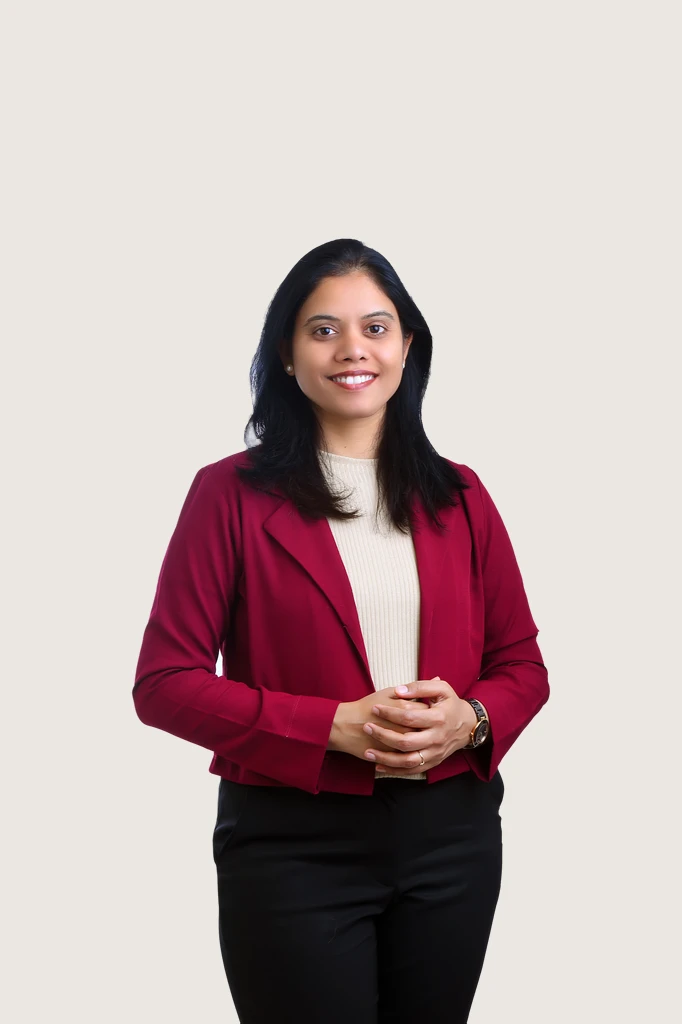
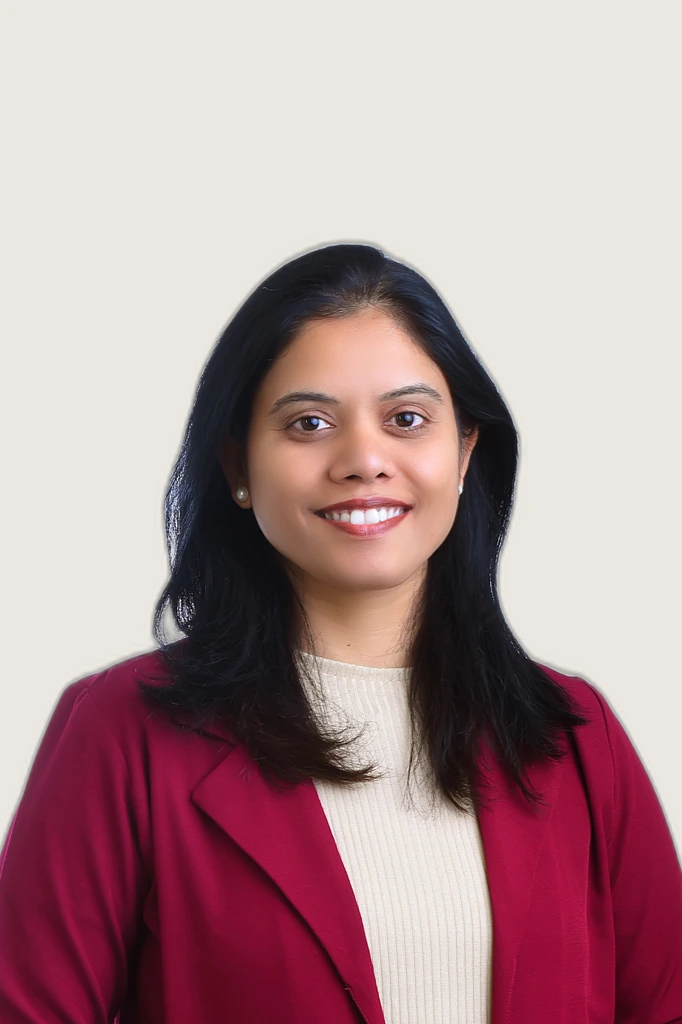
feat: update Dr. Ashvini portrait crop and clinic contact info

diff --git a/assets/js/main.js b/assets/js/main.js
@@ -293,8 +293,8 @@ document.addEventListener('DOMContentLoaded', () => {
       const treatmentText = treatmentSelect.options[treatmentSelect.selectedIndex].text;
 
       // Define WhatsApp numbers (Format: country code + number, no +, no spaces)
-      // For testing, route all submissions to the user's test number: +91 8767223224
-      const whatsappNumber = '918767223224'; 
+      // Route all submissions to clinic WhatsApp number: +91 94055 49094
+      const whatsappNumber = '919405549094'; 
       const branchName = branchVal === 'solapur' ? 'Solapur Main Branch' : 'Akkalkot Branch';
 
       // Format the WhatsApp message (using bold markdown *text*)
@@ -348,7 +348,7 @@ _Submitted via website form_`;
       const email = campForm.querySelector('#camp-email').value;
       const phone = campForm.querySelector('#camp-phone').value;
 
-      const whatsappNumber = '918767223224';
+      const whatsappNumber = '919405549094';
 
       const messageText = 
 `*Dental Camp Request*

diff --git a/contact.html b/contact.html
@@ -228,7 +228,7 @@
                             </div>
                             <div class="branch-card-footer">
                                 <a href="https://www.google.com/maps/search/?api=1&amp;query=Dr.+Karpe's+Centre+for+Advanced+Dentistry+Solapur" target="_blank" rel="noopener" class="btn-branch btn-directions"><i class="fa-solid fa-map-location-dot"></i> Get Directions</a>
-                                <a href="https://wa.me/918767223224?text=Hi%20Dr.%20Karpe%20Clinic%20(Solapur),%20I%20have%20an%20inquiry..." target="_blank" rel="noopener" class="btn-branch btn-whatsapp"><i class="fa-brands fa-whatsapp"></i> Chat on WhatsApp</a>
+                                <a href="https://wa.me/919405549094?text=Hi%20Dr.%20Karpe%20Clinic%20(Solapur),%20I%20have%20an%20inquiry..." target="_blank" rel="noopener" class="btn-branch btn-whatsapp"><i class="fa-brands fa-whatsapp"></i> Chat on WhatsApp</a>
                             </div>
                         </div>
 
@@ -245,7 +245,7 @@
                             </div>
                             <div class="branch-card-footer">
                                 <a href="https://www.google.com/maps/search/?api=1&amp;query=Dr.+Karpe's+Centre+for+Advanced+Dentistry+Akkalkot" target="_blank" rel="noopener" class="btn-branch btn-directions"><i class="fa-solid fa-map-location-dot"></i> Get Directions</a>
-                                <a href="https://wa.me/918767223224?text=Hi%20Dr.%20Karpe%20Clinic%20(Akkalkot),%20I%20have%20an%20inquiry..." target="_blank" rel="noopener" class="btn-branch btn-whatsapp"><i class="fa-brands fa-whatsapp"></i> Chat on WhatsApp</a>
+                                <a href="https://wa.me/919503159509?text=Hi%20Dr.%20Karpe%20Clinic%20(Akkalkot),%20I%20have%20an%20inquiry..." target="_blank" rel="noopener" class="btn-branch btn-whatsapp"><i class="fa-brands fa-whatsapp"></i> Chat on WhatsApp</a>
                             </div>
                         </div>
                     </div>

diff --git a/index.html b/index.html
@@ -43,7 +43,7 @@
 	  "name": "Dr. Karpe's Centre for Advanced Dentistry and Implantology",
 	  "image": "https://www.drkarpe.com/assets/img/logo.png",
 	  "telephone": "+91-94055-49094",
-	  "email": "[email redacted]",
+	  "email": "[email redacted]",
 	  "address": {
 		"@type": "PostalAddress",
 		"streetAddress": "139, Vijay Tower, Opposite Jain Medical, Near Bombay Bakery, Railway Line",
@@ -938,7 +938,7 @@
 
                                 <!-- Contact Info Content Start -->
                                 <div class="contact-info-content">
-                                    <p><strong>Email:</strong> [email redacted]</p>
+                                    <p><strong>Email:</strong> <a href="mailto:[email redacted]" style="color: inherit;">[email redacted]</a></p>
                                 </div>
                                 <!-- Contact Info Content End -->
                             </div>

diff --git a/js/appointment.js b/js/appointment.js
@@ -18,7 +18,7 @@ document.addEventListener('DOMContentLoaded', () => {
       const treatmentText = treatmentSelect.options[treatmentSelect.selectedIndex].text;
 
       // Define WhatsApp numbers (Format: country code + number, no +, no spaces)
-      const whatsappNumber = '918767223224'; 
+      const whatsappNumber = '919405549094'; 
       const branchName = branchVal === 'solapur' ? 'Solapur Main Branch' : 'Akkalkot Branch';
 
       // Format the WhatsApp message (using bold markdown *text*)
@@ -72,7 +72,7 @@ _Submitted via website form_`;
       const email = campForm.querySelector('#camp-email').value;
       const phone = campForm.querySelector('#camp-phone').value;
 
-      const whatsappNumber = '918767223224';
+      const whatsappNumber = '919405549094';
 
       const messageText = 
 `*Dental Camp Request*

diff --git a/assets/js/chatbot.js b/assets/js/chatbot.js
@@ -270,7 +270,7 @@
     });
 
   // WhatsApp Configuration
-  const whatsappPhone = "+918767223224"; // Tested phone number
+  const whatsappPhone = "+919405549094"; // Clinic WhatsApp number
   const whatsappBaseUrl = "https://wa.me/" + whatsappPhone + "?text=";
 
   // --- FUZZY SEARCH MATCHING LOGIC ---

diff --git a/js/chatbot.js b/js/chatbot.js
@@ -270,7 +270,7 @@
     });
 
   // WhatsApp Configuration
-  const whatsappPhone = "+918767223224"; // Tested phone number
+  const whatsappPhone = "+919405549094"; // Clinic WhatsApp number
   const whatsappBaseUrl = "https://wa.me/" + whatsappPhone + "?text=";
 
   // --- FUZZY SEARCH MATCHING LOGIC ---

diff --git a/privacy-policy.html b/privacy-policy.html
@@ -170,7 +170,7 @@
                                 <p style="margin: 0; font-weight: 500; color: var(--primary-color);">WhatsApp &amp; Direct Messaging Notice:</p>
                                 <p style="margin: 5px 0 0 0; font-size: 0.95rem;">Our forms feature direct WhatsApp integration (`wa.me`) to provide instant responses. When you click submit, your submitted details are pre-formatted into a WhatsApp chat for convenience. We do not use your phone number for unsolicited marketing or spam.</p>
                             </div>
-                            <p><strong>Opting Out:</strong> You may withdraw your consent to receive calls or promotional/reminder messages at any time by contacting our reception desk or emailing us at [email redacted].</p>
+                            <p><strong>Opting Out:</strong> You may withdraw your consent to receive calls or promotional/reminder messages at any time by contacting our reception desk or emailing us at <a href="mailto:[email redacted]" style="color: inherit;">[email redacted]</a>.</p>
                         </div>
 
                         <!-- Section 4 -->

diff --git a/team-single.html b/team-single.html
@@ -152,7 +152,7 @@
                             <ul>
                                 <li><span>Position</span>Senior Dantist</li>
                                 <li><span>Experience</span>08 Years</li>
-                                <li><span>Email</span>[email redacted]</li>
+                                <li><span>Email</span><a href="mailto:[email redacted]" style="color: inherit;">[email redacted]</a></li>
                             </ul>
                         </div>
 

diff --git a/docs/superpowers/plans/2026-07-24-dr-ashvini-photo-and-contact-info-updates.md b/docs/superpowers/plans/2026-07-24-dr-ashvini-photo-and-contact-info-updates.md
@@ -1,0 +1,69 @@
+# Dr. Ashvini Karpe Photo & Contact Information Updates Implementation Plan
+
+> **For agentic workers:** REQUIRED SUB-SKILL: Use superpowers:subagent-driven-development (recommended) or superpowers:executing-plans to implement this plan task-by-task. Steps use checkbox (`- [ ]`) syntax for tracking.
+
+**Goal:** Crop Dr. Ashvini Karpe's portrait from bottom to waist level while preserving theme and background, and update clinic email and WhatsApp numbers across all site files.
+
+**Architecture:** Python PIL + rembg script for portrait background removal, studio warm gray fill (`#EAE7E1`), top headroom alignment, and waist crop. Batch replace strings in HTML and JS for contact info.
+
+**Tech Stack:** Python (PIL, rembg, numpy), HTML, JavaScript.
+
+## Global Constraints
+
+- Dr. Ashvini portrait dimensions must be `682x1024` WebP.
+- Background color must match studio Warm Gray `#EAE7E1`.
+- Email target: `[email redacted]`.
+- WhatsApp target: `+91 94055-49094` (`919405549094`).
+
+---
+
+### Task 1: Re-process Dr. Ashvini Karpe Portrait (Waist-Crop Framing)
+
+**Files:**
+- Source: `assets/img/New_Images/Dr. Ashwini Karpe.jpg`
+- Output: `assets/img/team/Dr-Ashvini-Karpe.webp`
+
+- [ ] **Step 1: Write python portrait processing script**
+
+Write `scratch/process_ashvini_portrait.py` to extract subject via `rembg`, create a Warm Gray `682x1024` canvas (`#EAE7E1`), position subject head top at y=238, scale subject to crop at waist level, and export as WebP.
+
+- [ ] **Step 2: Run processing script**
+
+Run: `python scratch/process_ashvini_portrait.py`
+
+- [ ] **Step 3: Verify output dimensions and subject bounds**
+
+Run: `python -c "from PIL import Image; img=Image.open('assets/img/team/Dr-Ashvini-Karpe.webp'); print(img.size)"`
+Expected: `(682, 1024)`
+
+---
+
+### Task 2: Replace Legacy Email Addresses Across Codebase
+
+**Files:**
+- Modify: `index.html`, `about.html`, `contact.html`, `appointment.html`, `privacy-policy.html`, `team-single.html`
+
+- [ ] **Step 1: Replace legacy emails in HTML files**
+
+Replace `[email redacted]`, `[email redacted]`, `[email redacted]` with `[email redacted]`.
+
+- [ ] **Step 2: Verify zero legacy email occurrences remain**
+
+Run: `grep -rn "drkarpe.com" *.html` and `grep -rn "[email redacted]" *.html`
+Expected: 0 matches for old emails (excluding website domain URL references if valid).
+
+---
+
+### Task 3: Replace Test WhatsApp Number Across Codebase
+
+**Files:**
+- Modify: `assets/js/main.js`, `assets/js/chatbot.js`, `js/appointment.js`, `contact.html`
+
+- [ ] **Step 1: Replace test phone number `8767223224` with clinic WhatsApp number `9405549094`**
+
+In `assets/js/main.js`, `assets/js/chatbot.js`, `js/appointment.js`, and `contact.html`, replace `8767223224` / `+918767223224` with `9405549094` / `+919405549094`.
+
+- [ ] **Step 2: Verify zero test number occurrences remain**
+
+Run: `grep -rn "8767223224" .`
+Expected: 0 matches.

diff --git a/docs/superpowers/specs/2026-07-24-dr-ashvini-photo-and-contact-info-updates-design.md b/docs/superpowers/specs/2026-07-24-dr-ashvini-photo-and-contact-info-updates-design.md
@@ -1,0 +1,35 @@
+# Design Spec: Dr. Ashvini Karpe Photo & Contact Information Updates
+
+## Goal
+Update Dr. Ashvini Karpe's portrait to crop subject from bottom to waist level while preserving existing Warm Gray background and top headroom. Update clinic contact info across all codebase files (replace legacy emails with `[email redacted]` and replace test WhatsApp number with clinic WhatsApp number `+91 94055-49094`).
+
+## Component 1: Dr. Ashvini Karpe Portrait Processing
+- **Source**: `assets/img/New_Images/Dr. Ashwini Karpe.jpg`
+- **Output Target**: `assets/img/team/Dr-Ashvini-Karpe.webp` (Dimensions: `682x1024` WebP)
+- **Processing Logic**:
+  - Remove original background via `rembg`.
+  - Place subject on solid Warm Gray studio background (`#EAE7E1`).
+  - Align top headroom (y ~ 238px) with Dr. Vivekanand Karpe and Dr. Muniza Qureshi portraits.
+  - Scale subject so bottom edge crops at waist height inside `682x1024` canvas.
+
+## Component 2: Email Address Update
+- Replace all legacy/placeholder email addresses (`[email redacted]`, `[email redacted]`, `[email redacted]`) with `[email redacted]`.
+- Target files:
+  - `index.html`
+  - `about.html`
+  - `contact.html`
+  - `appointment.html`
+  - `privacy-policy.html`
+  - `team-single.html`
+
+## Component 3: WhatsApp Number Update
+- Replace test phone number (`8767223224` / `+91 8767223224`) with clinic WhatsApp number `+91 94055-49094` (`919405549094`).
+- Target files:
+  - `assets/js/main.js`
+  - `assets/js/chatbot.js`
+  - `js/appointment.js`
+  - `contact.html`
+
+## Verification
+- Verify generated WebP dimensions (`682x1024`) and visual alignment with existing team photos.
+- Grep codebase to confirm zero remaining instances of legacy emails or test phone numbers.